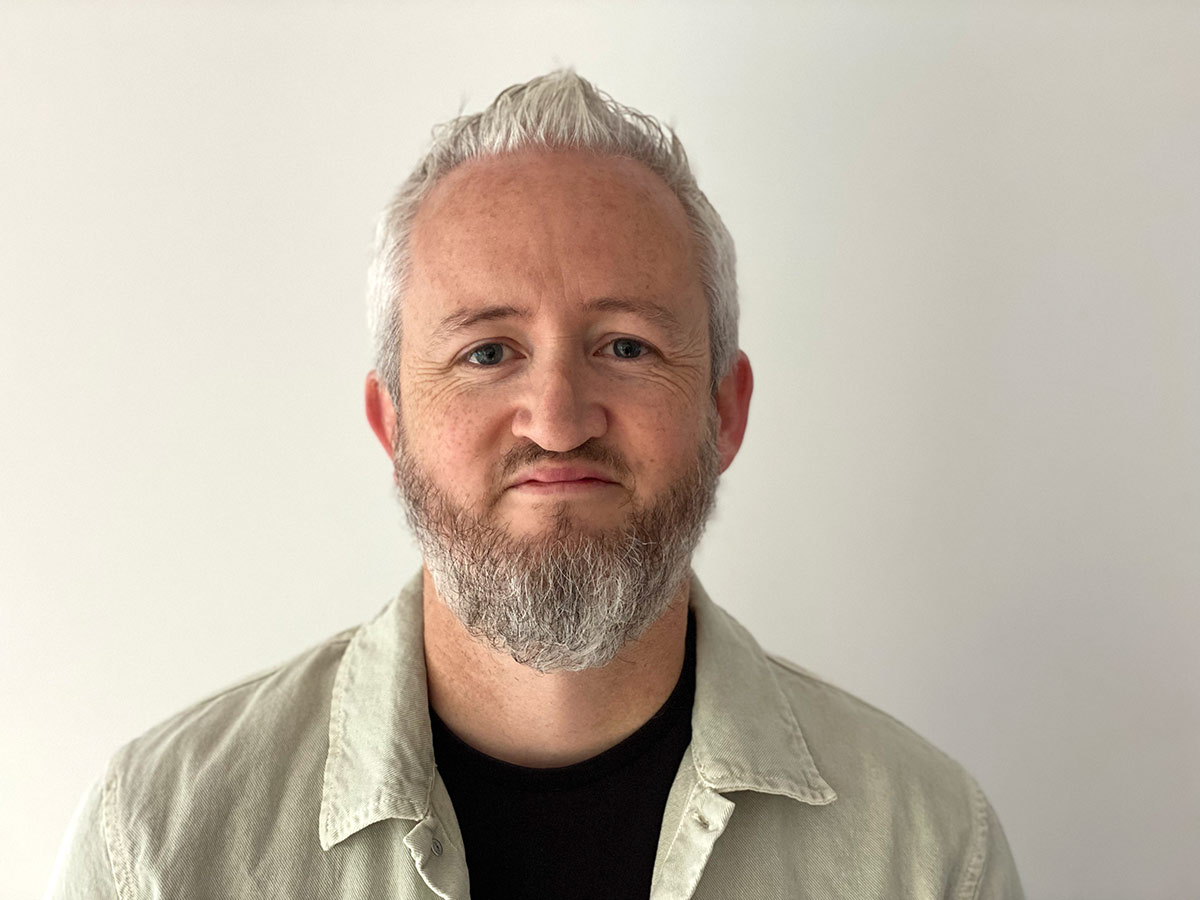
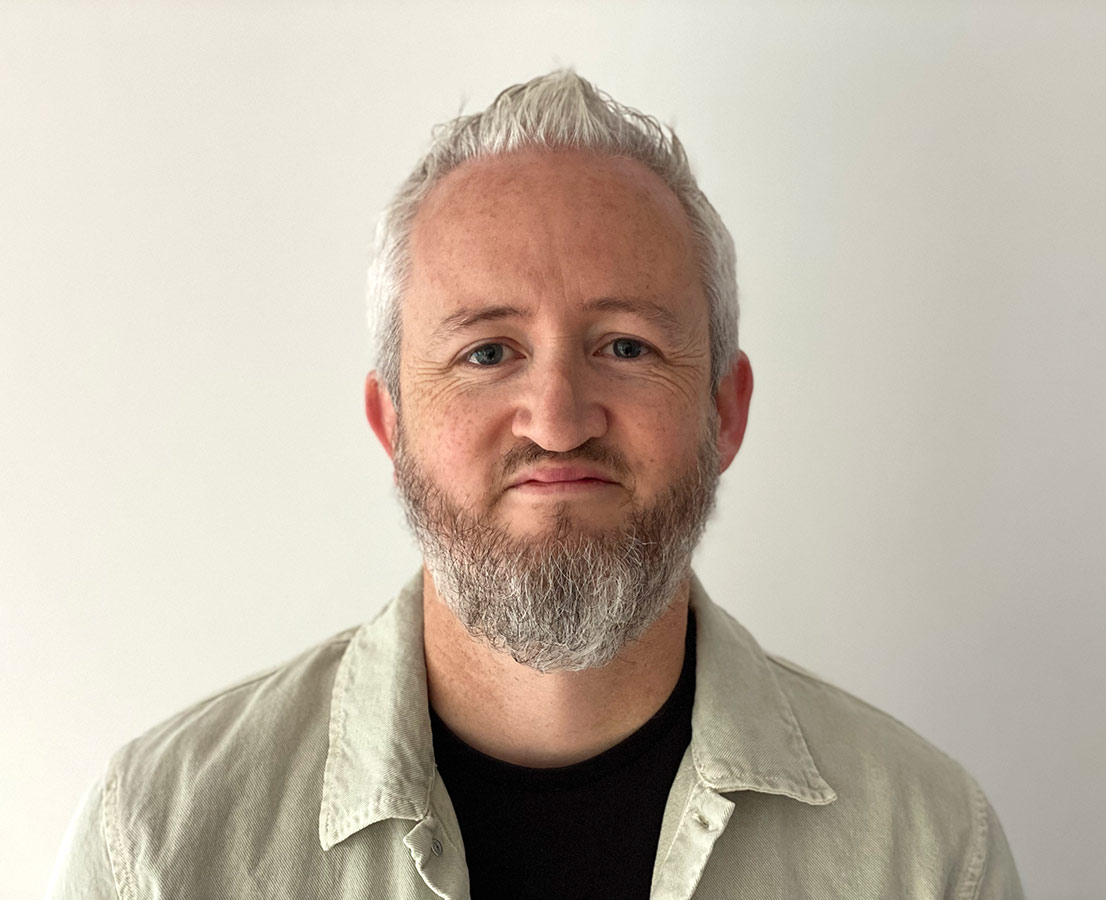
tweak

Changed region(s): [[0.0615, 0.0622, 0.953, 1.0]]

diff --git a/src/components/About.vue b/src/components/About.vue
@@ -5,7 +5,7 @@
     </div>
     <div class="profileText">
       <h2>
-        Hi, I'm <span class="invert">Eoghain O’Briain</span>, originally from
+        Hi, I'm <span class="invert">Eoghain O’Briain</span>. Originally from
         Ireland I now live in the Netherlands. I'm a passionate
         <span class="invert">full-stack</span> and
         <span class="invert">front-end developer</span> with demonstrable
@@ -26,6 +26,7 @@ export default {
 
 <style scoped>
 h2 {
+  font-size: x-large;
   color: white;
 }
 
@@ -38,7 +39,7 @@ h2 {
 .profileImage img {
   width: 104%;
   height: 240px;
-  object-position: top -25px left 0px;
+  object-position: center;
   object-fit: cover;
   border-top: solid 2px white;
   border-bottom: solid 2px white;
@@ -48,43 +49,68 @@ h2 {
   margin-left: 15px;
   margin-right: 15px;
 }
-
+@media only screen and (min-width: 425px) {
+  .profileImage img {
+    object-position: top -80px left 0px;
+  }
+}
+@media only screen and (min-width: 525px) {
+  .profileImage img {
+    object-position: top -110px left 0px;
+  }
+}
+@media only screen and (min-width: 610px) {
+  .profileImage img {
+    object-position: top -140px left 0px;
+  }
+}
 @media only screen and (min-width: 768px) {
   .profileBlock {
     display: flex;
     align-items: center;
     margin-bottom: 30px;
   }
-  .profileImage {
-    height: 440px;
-  }
 
   h2 {
-    font-size: xx-large;
-    line-height: 50px;
+    font-size: 2.9vw;
+    line-height: 4.5vw;
     padding: 20px 0px;
     border-top: solid 2px white;
     border-bottom: solid 2px white;
   }
-
-  .profileImage img {
+  .profileImage {
     height: 100%;
-    width: 400px;
-    object-position: top 0px left -60px;
+  }
+  .profileImage img {
+    width: 325px;
+    height: 371px;
+    object-fit: cover;
+    object-position: top 0px left -64px;
     margin-right: 20px;
     border-radius: 10px;
     border-top: none;
     border-bottom: none;
   }
-}
-
-@media only screen and (min-width: 768px) {
   .profileBlock {
     margin-left: 15px;
     margin-right: 15px;
   }
   .profileText {
     margin-right: 0px;
+  }
+}
+@media only screen and (min-width: 1100px) {
+  h2 {
+    font-size: xx-large;
+    line-height: 50px;
+  }
+  .profileImage {
+    height: 440px;
+  }
+  .profileImage img {
+    width: 400px;
+    height: 100%;
+    object-position: top 0px left -60px;
   }
 }
 </style>
